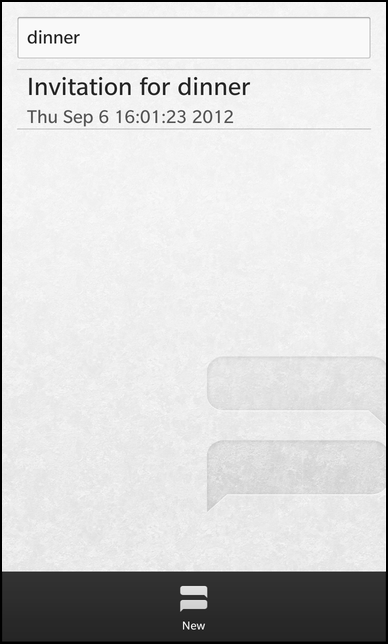
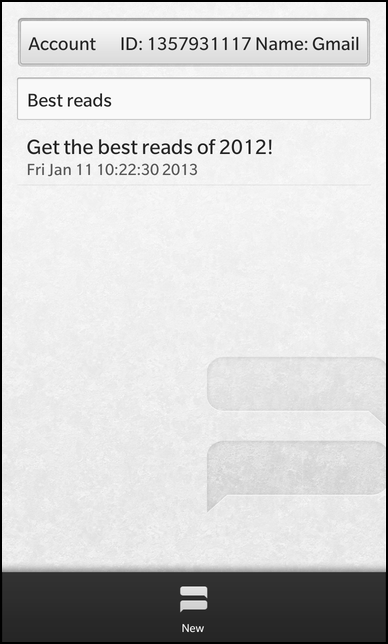
updated messsages png files

Changed region(s): [[0.0309, 0.0, 0.9588, 0.2795], [0.0, 0.8696, 1.0, 0.9938], [0.9278, 0.1553, 0.9588, 0.1863]]

diff --git a/messages/assets/main.qml b/messages/assets/main.qml
@@ -43,7 +43,7 @@ NavigationPane {
                 bottomPadding: 30
                 DropDown {
                     id: accounts
-                    title: "Select Account"
+                    title: "Account"
                     onSelectedOptionChanged: _messages.setSelectedAccount(selectedOption)
                 }
                 //! [0]
